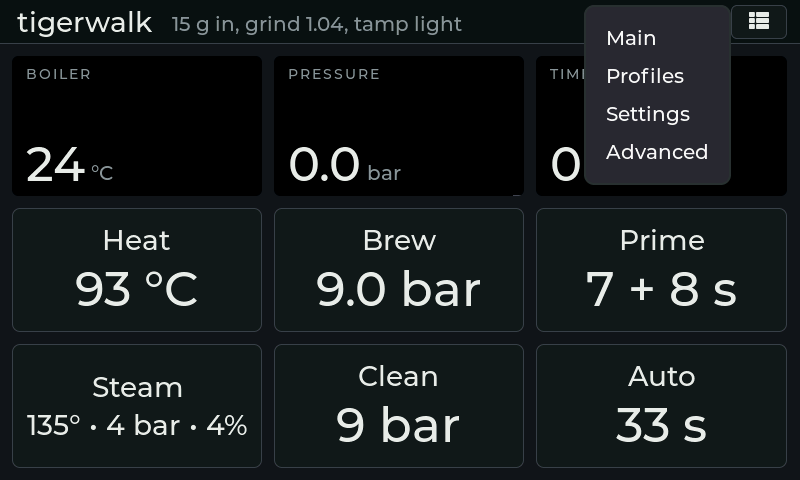
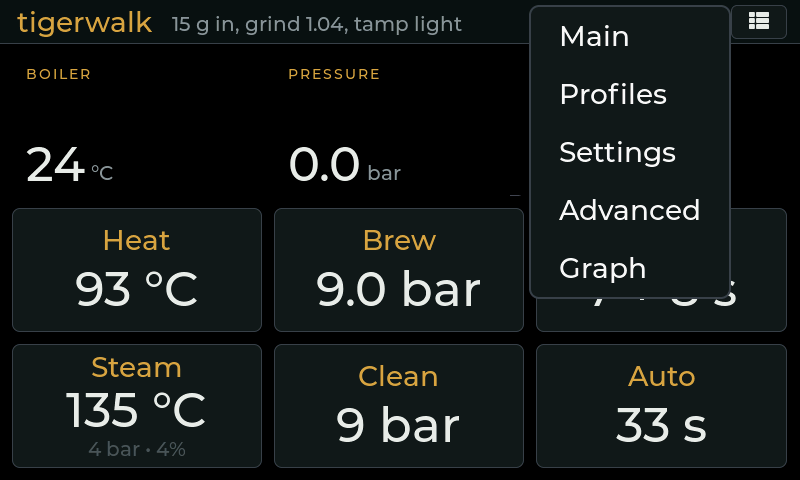
ui: amber for labels, names and the title; steam lit in red; editor cursor on and tap-outside closes; bigger menu rows
Claude-Session: https://claude.ai/code/session_016XyD3ZMrdy4hijk3p6yM2m

diff --git a/gaggiano-v2/lv_buildUI.c b/gaggiano-v2/lv_buildUI.c
@@ -84,6 +84,7 @@ static lv_obj_t* heat_btn_label;
 static lv_obj_t* boil_btn;
 static lv_obj_t* boil_btn_label;
 static lv_obj_t* boil_btn_sub;   // pressure and pump on the steam button
+static lv_obj_t* btn_names[6];   // name labels, recolored with the checked state
 static lv_obj_t* brew_btn;
 static lv_obj_t* brew_btn_label;
 static lv_obj_t* clean_btn;
@@ -182,6 +183,7 @@ static void editor_close(bool apply) {
     lv_obj_add_flag(editor_kb, LV_OBJ_FLAG_HIDDEN);
   }
   lv_obj_add_flag(editor, LV_OBJ_FLAG_HIDDEN);
+  lv_obj_clear_state(editor_ta, LV_STATE_FOCUSED);
   lv_obj_clear_state(target, LV_STATE_FOCUSED);
   lv_indev_reset(NULL, target);  // so the same field can be tapped again
   lv_event_send(target, apply ? LV_EVENT_READY : LV_EVENT_CANCEL, NULL);
@@ -196,10 +198,18 @@ static void editor_open(lv_obj_t* field, lv_obj_t* kb) {
   lv_textarea_set_text(editor_ta, lv_textarea_get_text(field));
   lv_textarea_set_cursor_pos(editor_ta, LV_TEXTAREA_CURSOR_LAST);
   lv_keyboard_set_textarea(kb, editor_ta);
+  lv_obj_add_state(editor_ta, LV_STATE_FOCUSED);  // cursor visible from the start
   lv_obj_set_height(kb, LV_VER_RES / 2);
   lv_obj_clear_flag(editor, LV_OBJ_FLAG_HIDDEN);
   lv_obj_clear_flag(kb, LV_OBJ_FLAG_HIDDEN);
   lv_obj_move_foreground(kb);
+}
+
+// a tap on the dimmed area (not on the value) closes the editor, keeping the edit
+static void editor_bg_clicked(lv_event_t* e) {
+  if (lv_event_get_code(e) != LV_EVENT_CLICKED || editor_target == NULL) return;
+  bool changed = strcmp(lv_textarea_get_text(editor_ta), lv_textarea_get_text(editor_target)) != 0;
+  editor_close(changed);
 }
 
 static void editor_kb_event(lv_event_t* e) {
@@ -215,6 +225,7 @@ static void editor_create(void) {
   lv_obj_set_pos(editor, 0, 0);
   lv_obj_clear_flag(editor, LV_OBJ_FLAG_SCROLLABLE);
   lv_obj_add_flag(editor, LV_OBJ_FLAG_HIDDEN);
+  lv_obj_add_event_cb(editor, editor_bg_clicked, LV_EVENT_CLICKED, NULL);
 
   editor_title = lv_label_create(editor);
   theme_apply_editor_title(editor_title);
@@ -478,6 +489,17 @@ static void menu_changed(lv_event_t* e) {
   lv_event_code_t code = lv_event_get_code(e);
   if (code == LV_EVENT_VALUE_CHANGED) {
     lv_tabview_set_act(tv, lv_dropdown_get_selected(menuDd), LV_ANIM_OFF);
+  } else if (code == LV_EVENT_READY) {
+    // the list exists only while open: make its rows big enough for a finger
+    lv_obj_t* list = lv_dropdown_get_list(menuDd);
+    lv_obj_t* label = lv_obj_get_child(list, 0);  // LVGL sizes the list from this label right after this event
+    lv_obj_set_style_text_font(label, theme_font_value, 0);
+    lv_obj_set_style_text_line_space(label, 28, 0);
+    lv_obj_set_style_pad_ver(list, 14, 0);
+    lv_obj_set_style_pad_hor(list, 28, 0);
+    lv_obj_set_style_bg_color(list, theme_surface(), 0);
+    lv_obj_set_style_border_color(list, theme_steel(), 0);
+    lv_obj_set_style_max_height(list, LV_VER_RES - 2 * HEADER_H, 0);  // the theme caps lists at 2 x DPI
   }
 }
 
@@ -737,6 +759,16 @@ void updateUI() {
 
   graph_update(millis());
 
+  // button labels follow the checked state (amber names when idle, ink on a lit button)
+  {
+    lv_obj_t* btns[6] = { heat_btn, brew_btn, prime_btn, boil_btn, clean_btn, auto_btn };
+    lv_obj_t* values[6] = { heat_btn_label, brew_btn_label, prime_btn_label, boil_btn_label, clean_btn_label, auto_btn_label };
+    for (int i = 0; i < 6; i++) {
+      theme_set_btn_labels(btn_names[i], values[i], btns[i] == boil_btn ? boil_btn_sub : NULL,
+                           lv_obj_has_state(btns[i], LV_STATE_CHECKED));
+    }
+  }
+
   if (state->notes[0] == '\0') lv_obj_add_flag(main_notes_label, LV_OBJ_FLAG_HIDDEN);
   else lv_obj_clear_flag(main_notes_label, LV_OBJ_FLAG_HIDDEN);
 
@@ -971,6 +1003,7 @@ static lv_obj_t* action_btn_create(lv_obj_t* parent, const char* name, bool stea
   lv_obj_t* nameLabel = lv_label_create(btn);
   theme_apply_btn_name(nameLabel);
   lv_label_set_text(nameLabel, name);
+  for (int i = 0; i < 6; i++) if (btn_names[i] == NULL) { btn_names[i] = nameLabel; break; }
 
   lv_obj_t* value = lv_label_create(btn);
   theme_apply_btn_value(value);
@@ -1036,7 +1069,7 @@ static void graph_create(lv_obj_t* parent) {
   lv_obj_set_size(legend, LV_PCT(100), 30);
   lv_obj_set_flex_flow(legend, LV_FLEX_FLOW_ROW);
   lv_obj_set_flex_align(legend, LV_FLEX_ALIGN_SPACE_BETWEEN, LV_FLEX_ALIGN_CENTER, LV_FLEX_ALIGN_CENTER);
-  lv_color_t colors[4] = { theme_amber(), theme_steam(), theme_heater(), theme_pump() };
+  lv_color_t colors[4] = { theme_amber(), theme_pressure(), theme_heater(), theme_pump() };
   for (int i = 0; i < 4; i++) {
     g_legend[i] = lv_label_create(legend);
     theme_apply_legend(g_legend[i], colors[i]);
@@ -1054,7 +1087,7 @@ static void graph_create(lv_obj_t* parent) {
   g_boiler_ser = lv_chart_add_series(graph_chart, theme_heater(), LV_CHART_AXIS_PRIMARY_Y);
   g_pump_ser = lv_chart_add_series(graph_chart, theme_pump(), LV_CHART_AXIS_PRIMARY_Y);
   g_temp_ser = lv_chart_add_series(graph_chart, theme_amber(), LV_CHART_AXIS_PRIMARY_Y);
-  g_press_ser = lv_chart_add_series(graph_chart, theme_steam(), LV_CHART_AXIS_SECONDARY_Y);
+  g_press_ser = lv_chart_add_series(graph_chart, theme_pressure(), LV_CHART_AXIS_SECONDARY_Y);
   lv_chart_set_all_value(graph_chart, g_boiler_ser, LV_CHART_POINT_NONE);
   lv_chart_set_all_value(graph_chart, g_pump_ser, LV_CHART_POINT_NONE);
   lv_chart_set_all_value(graph_chart, g_temp_ser, LV_CHART_POINT_NONE);

diff --git a/gaggiano-v2/theme.c b/gaggiano-v2/theme.c
@@ -6,7 +6,8 @@ lv_color_t theme_steel(void) { return lv_color_hex(0x3C434A); }
 lv_color_t theme_text(void) { return lv_color_hex(0xE9ECEF); }
 lv_color_t theme_muted(void) { return lv_color_hex(0x8B949E); }
 lv_color_t theme_amber(void) { return lv_color_hex(0xD9A441); }
-lv_color_t theme_steam(void) { return lv_color_hex(0x7FB3D5); }
+lv_color_t theme_steam(void) { return lv_color_hex(0xD64545); }
+lv_color_t theme_pressure(void) { return lv_color_hex(0x7FB3D5); }
 lv_color_t theme_heater(void) { return lv_color_hex(0xD9603B); }
 lv_color_t theme_pump(void) { return lv_color_hex(0x6BBF8A); }
 lv_color_t theme_clean(void) { return lv_color_hex(0x4FA3A0); }
@@ -58,7 +59,7 @@ void theme_init(void) {
   lv_style_set_text_font(&st_muted, theme_font_small);
 
   lv_style_init(&st_title);
-  lv_style_set_text_color(&st_title, theme_text());
+  lv_style_set_text_color(&st_title, theme_amber());
   lv_style_set_text_font(&st_title, theme_font_value);
 
   lv_style_init(&st_btn);
@@ -98,7 +99,7 @@ void theme_init(void) {
 
   lv_style_init(&st_btn_name);
   lv_style_set_text_font(&st_btn_name, theme_font_value);
-  lv_style_set_text_opa(&st_btn_name, LV_OPA_70);  // quieter than the value, in every button state
+  lv_style_set_text_color(&st_btn_name, theme_amber());  // theme_set_btn_labels() switches it when lit
 
   lv_style_init(&st_btn_sub);
   lv_style_set_text_font(&st_btn_sub, theme_font_name);
@@ -147,7 +148,7 @@ void theme_init(void) {
 
   lv_style_init(&st_editor_title);
   lv_style_set_text_font(&st_editor_title, theme_font_big);
-  lv_style_set_text_color(&st_editor_title, theme_muted());
+  lv_style_set_text_color(&st_editor_title, theme_amber());
   lv_style_set_text_align(&st_editor_title, LV_TEXT_ALIGN_CENTER);
 
   lv_style_init(&st_field_label);
@@ -185,7 +186,7 @@ void theme_init(void) {
   lv_style_set_clip_corner(&st_tile, true);
 
   lv_style_init(&st_tile_label);
-  lv_style_set_text_color(&st_tile_label, theme_muted());
+  lv_style_set_text_color(&st_tile_label, theme_amber());
   lv_style_set_text_font(&st_tile_label, theme_font_small);
   lv_style_set_text_letter_space(&st_tile_label, 2);
 
@@ -282,6 +283,13 @@ void theme_apply_chart(lv_obj_t *chart) {
 
 lv_chart_series_t *theme_chart_series(lv_obj_t *chart) {
   return lv_chart_add_series(chart, steel_hi(), LV_CHART_AXIS_PRIMARY_Y);
+}
+
+void theme_set_btn_labels(lv_obj_t *name, lv_obj_t *value, lv_obj_t *sub, bool checked) {
+  lv_color_t ink = amber_ink();
+  lv_obj_set_style_text_color(name, checked ? ink : theme_amber(), 0);
+  if (value) lv_obj_set_style_text_color(value, checked ? ink : theme_text(), 0);
+  if (sub) lv_obj_set_style_text_color(sub, checked ? ink : theme_muted(), 0);
 }
 
 void theme_set_hot(lv_obj_t *value, lv_obj_t *chart, lv_chart_series_t *ser, bool hot) {

diff --git a/gaggiano-v2/theme.h b/gaggiano-v2/theme.h
@@ -16,7 +16,8 @@ lv_color_t theme_steel(void);     // borders, active tab
 lv_color_t theme_text(void);
 lv_color_t theme_muted(void);
 lv_color_t theme_amber(void);     // anything running
-lv_color_t theme_steam(void);     // steaming
+lv_color_t theme_steam(void);     // steaming (a red, distinct from the amber)
+lv_color_t theme_pressure(void);  // graph: pressure curve
 lv_color_t theme_heater(void);    // graph: heater output
 lv_color_t theme_pump(void);      // graph: pump output
 lv_color_t theme_clean(void);     // graph: clean mode
@@ -45,6 +46,7 @@ void theme_apply_tile_unit(lv_obj_t *label);      // unit next to the reading
 void theme_apply_chart(lv_obj_t *chart);          // curve behind a tile: no grid, no points
 lv_chart_series_t *theme_chart_series(lv_obj_t *chart);
 void theme_set_hot(lv_obj_t *value, lv_obj_t *chart, lv_chart_series_t *ser, bool hot);  // amber while running
+void theme_set_btn_labels(lv_obj_t *name, lv_obj_t *value, lv_obj_t *sub, bool checked);  // name amber when idle, ink when lit
 void theme_apply_btn_name(lv_obj_t *label);
 void theme_apply_btn_value(lv_obj_t *label);
 void theme_apply_btn_sub(lv_obj_t *label);        // small third line in a button
